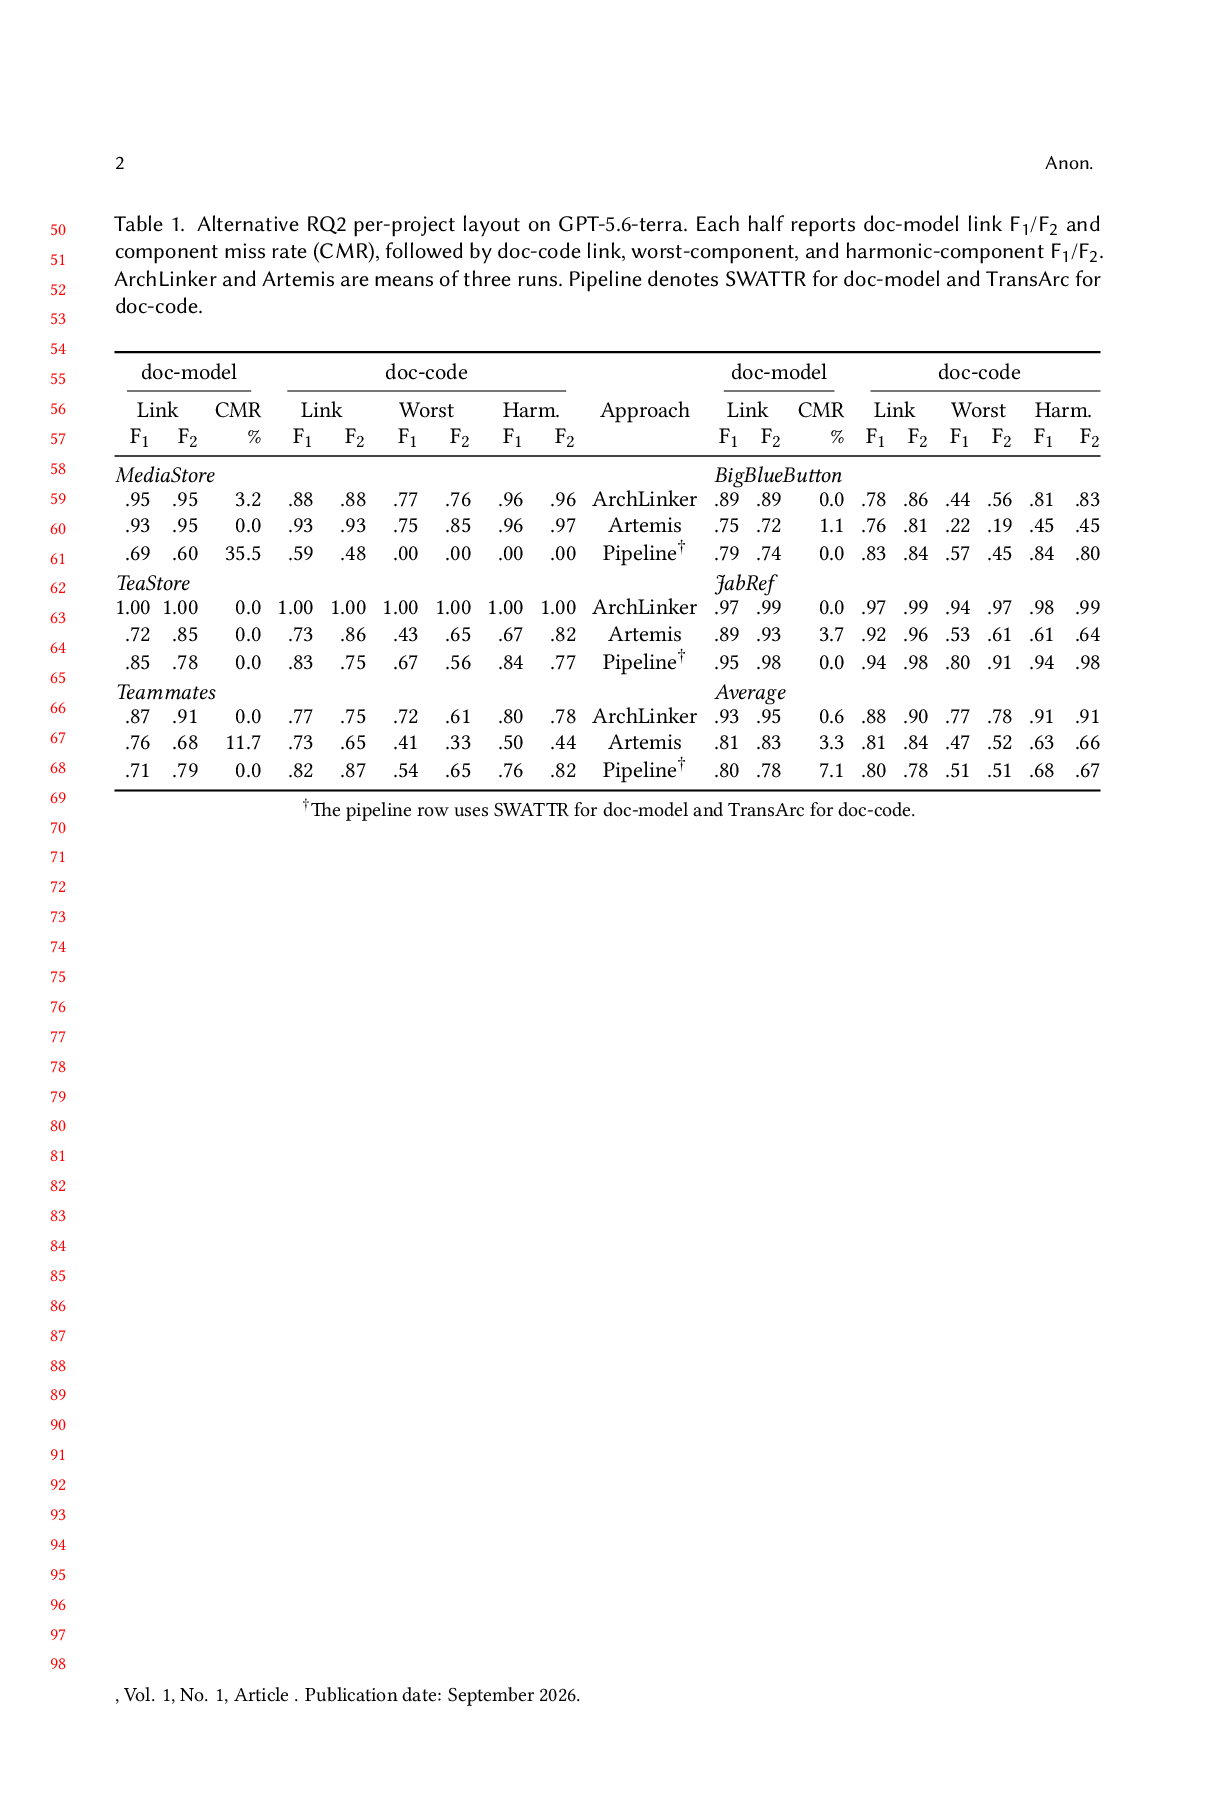
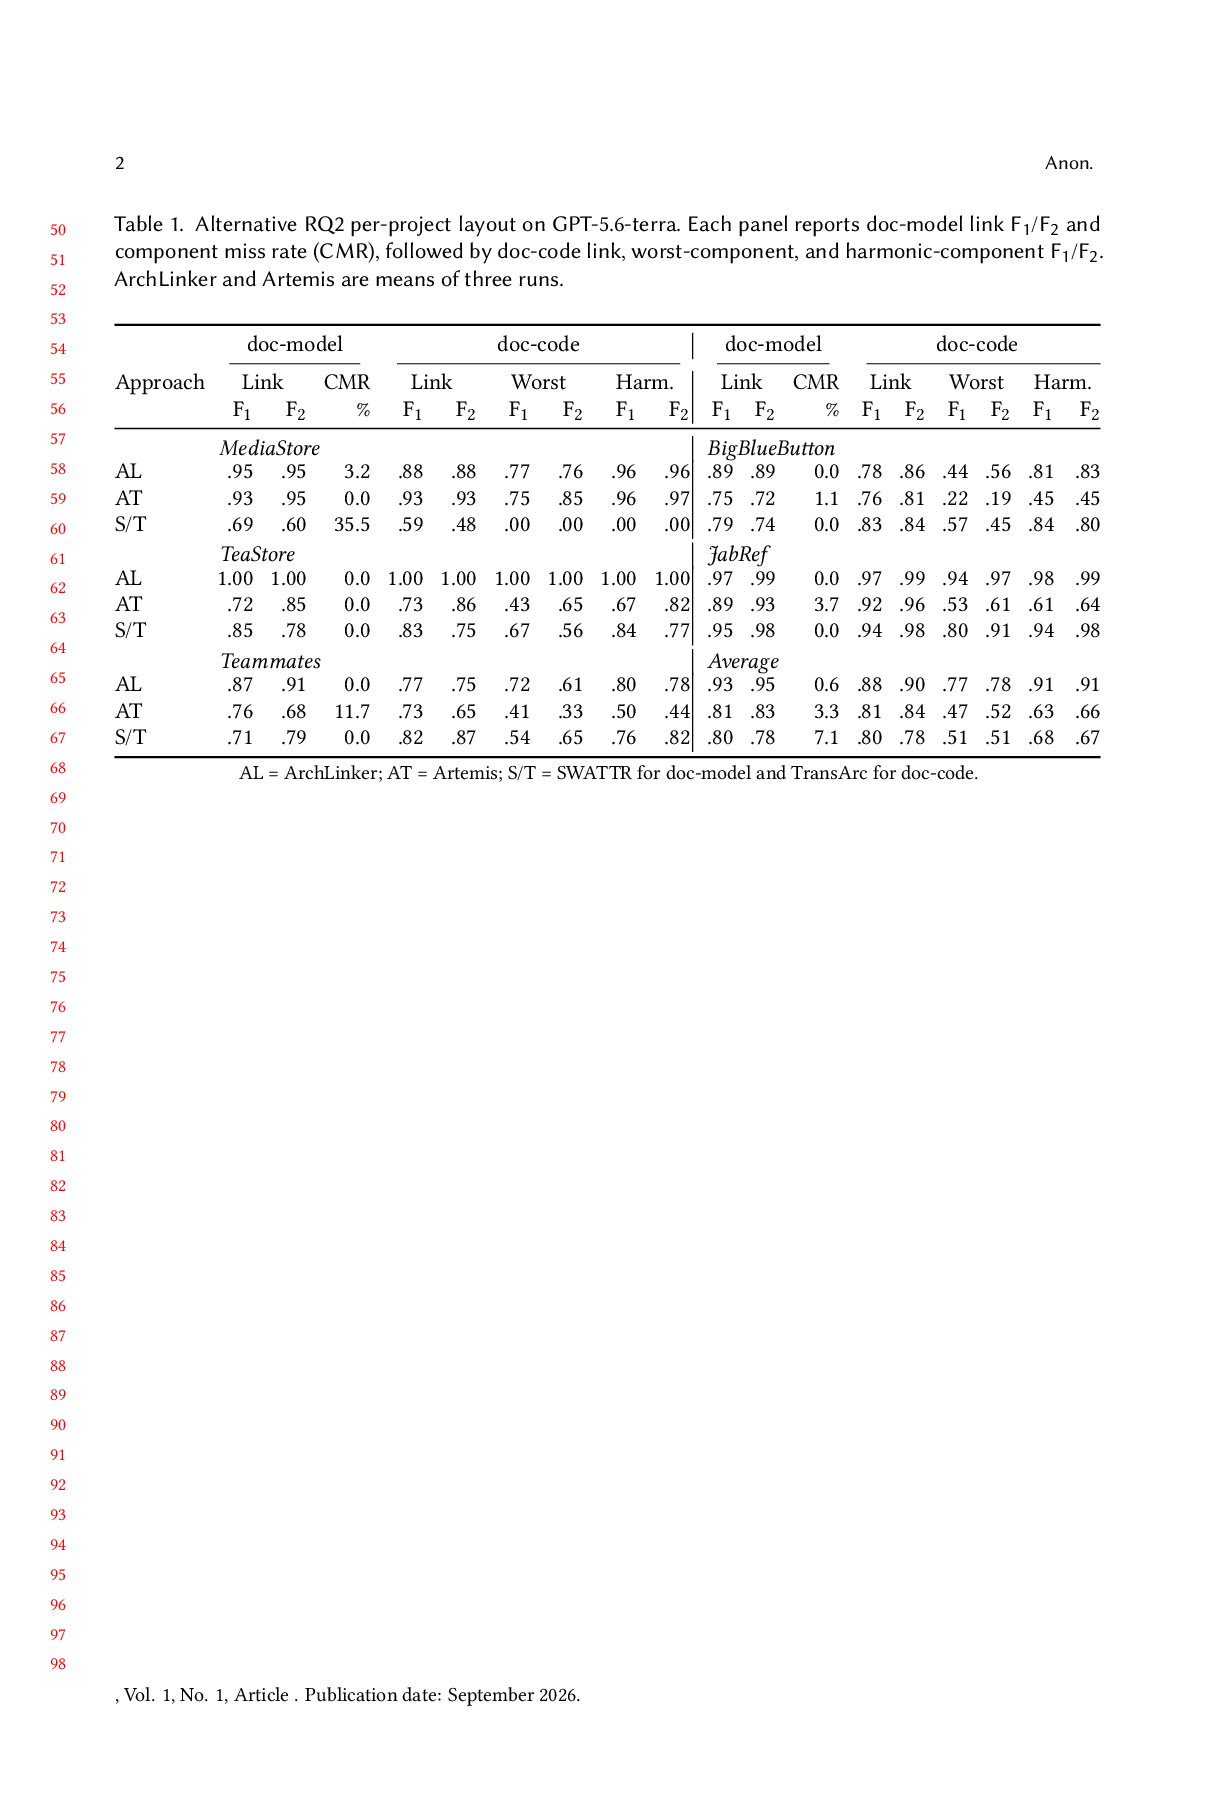
Refine RQ2 split-panel layout

Changed region(s): [[0.0914, 0.1244, 0.9136, 0.4667], [0.2132, 0.1244, 0.2436, 0.1556]]

diff --git a/scripts/generate_rq2_split_table.py b/scripts/generate_rq2_split_table.py
@@ -31,9 +31,9 @@ PROJECT_LABELS = {
     "Average": "Average",
 }
 SYSTEMS = (
-    ("approach (GPT-5.6-terra)", "ArchLinker"),
-    ("Artemis (GPT-5.6-terra)", "Artemis"),
-    ("TransArC", "Pipeline"),
+    ("approach (GPT-5.6-terra)", "AL"),
+    ("Artemis (GPT-5.6-terra)", "AT"),
+    ("TransArC", "S/T"),
 )
 METRICS = (
     "doc_to_model_link_f1",
@@ -147,14 +147,14 @@ def write_csv(path: Path, rows: list[DisplayRow]) -> None:
 
 def latex_approach(name: str) -> str:
     return {
-        "ArchLinker": r"\approach{}",
-        "Artemis": r"\Artemis{}",
-        "Pipeline": r"Pipeline$^{\dagger}$",
+        "AL": "AL",
+        "AT": "AT",
+        "S/T": "S/T",
     }[name]
 
 
 def latex_row(row: DisplayRow) -> str:
-    cells = [*row.left_values, latex_approach(row.approach), *row.right_values]
+    cells = [latex_approach(row.approach), *row.left_values, *row.right_values]
     return " & ".join(cells) + r" \\"
 
 
@@ -168,8 +168,8 @@ def render_tex(source: Path, csv_output: Path, rows: list[DisplayRow]) -> str:
             if previous_left is not None:
                 body.append(r"\addlinespace[1.5pt]")
             body.append(
-                rf"\multicolumn{{9}}{{@{{}}l}}{{\textit{{{row.left_project}}}}}"
-                rf" & & \multicolumn{{9}}{{l@{{}}}}{{\textit{{{row.right_project}}}}} \\[-1pt]"
+                rf"& \multicolumn{{9}}{{l|}}{{\textit{{{row.left_project}}}}}"
+                rf" & \multicolumn{{9}}{{l@{{}}}}{{\textit{{{row.right_project}}}}} \\[-1pt]"
             )
         body.append(latex_row(row))
         previous_left = row.left_project
@@ -179,25 +179,25 @@ def render_tex(source: Path, csv_output: Path, rows: list[DisplayRow]) -> str:
 % Intermediate data: {relative_csv}
 % Do not edit by hand; rerun the generator.
 \begin{{table}}[t]
-\caption{{Alternative RQ2 per-project layout on GPT-5.6-terra. Each half reports doc-model link \fone/\ftwo and component miss rate (CMR), followed by doc-code link, worst-component, and harmonic-component \fone/\ftwo. \approach{{}} and \Artemis{{}} are means of three runs. Pipeline denotes SWATTR for doc-model and \TransArc{{}} for doc-code.}}
+\caption{{Alternative RQ2 per-project layout on GPT-5.6-terra. Each panel reports doc-model link \fone/\ftwo and component miss rate (CMR), followed by doc-code link, worst-component, and harmonic-component \fone/\ftwo. \approach{{}} and \Artemis{{}} are means of three runs.}}
 \label{{tab:rq2-wide-comparison}}
 \centering\small
 \setlength{{\tabcolsep}}{{1pt}}
 \renewcommand{{\arraystretch}}{{0.96}}
-\begin{{tabular*}}{{\linewidth}}{{@{{}}r@{{\extracolsep{{\fill}}}}*{{8}}{{r}}c*{{9}}{{r}}@{{}}}}
+\begin{{tabular*}}{{\linewidth}}{{@{{}}l@{{\extracolsep{{\fill}}}}*{{9}}{{r}}|*{{9}}{{r}}@{{}}}}
 \toprule
-\multicolumn{{3}}{{c}}{{doc-model}} & \multicolumn{{6}}{{c}}{{doc-code}}
-& & \multicolumn{{3}}{{c}}{{doc-model}} & \multicolumn{{6}}{{c}}{{doc-code}} \\
-\cmidrule(lr){{1-3}}\cmidrule(lr){{4-9}}\cmidrule(lr){{11-13}}\cmidrule(l){{14-19}}
-\multicolumn{{2}}{{c}}{{Link}} & CMR & \multicolumn{{2}}{{c}}{{Link}} & \multicolumn{{2}}{{c}}{{Worst}} & \multicolumn{{2}}{{c}}{{Harm.}}
-& Approach & \multicolumn{{2}}{{c}}{{Link}} & CMR & \multicolumn{{2}}{{c}}{{Link}} & \multicolumn{{2}}{{c}}{{Worst}} & \multicolumn{{2}}{{c}}{{Harm.}} \\
-\fone & \ftwo & \% & \fone & \ftwo & \fone & \ftwo & \fone & \ftwo
-& & \fone & \ftwo & \% & \fone & \ftwo & \fone & \ftwo & \fone & \ftwo \\
+& \multicolumn{{3}}{{c}}{{doc-model}} & \multicolumn{{6}}{{c|}}{{doc-code}}
+& \multicolumn{{3}}{{c}}{{doc-model}} & \multicolumn{{6}}{{c}}{{doc-code}} \\
+\cmidrule(lr){{2-4}}\cmidrule(lr){{5-10}}\cmidrule(lr){{11-13}}\cmidrule(l){{14-19}}
+Approach & \multicolumn{{2}}{{c}}{{Link}} & CMR & \multicolumn{{2}}{{c}}{{Link}} & \multicolumn{{2}}{{c}}{{Worst}} & \multicolumn{{2}}{{c|}}{{Harm.}}
+& \multicolumn{{2}}{{c}}{{Link}} & CMR & \multicolumn{{2}}{{c}}{{Link}} & \multicolumn{{2}}{{c}}{{Worst}} & \multicolumn{{2}}{{c}}{{Harm.}} \\
+& \fone & \ftwo & \% & \fone & \ftwo & \fone & \ftwo & \fone & \ftwo
+& \fone & \ftwo & \% & \fone & \ftwo & \fone & \ftwo & \fone & \ftwo \\
 \midrule
 {chr(10).join(body)}
 \bottomrule
 \end{{tabular*}}
-\par\smallskip\footnotesize $^{{\dagger}}$The pipeline row uses SWATTR for doc-model and \TransArc{{}} for doc-code.
+\par\smallskip\footnotesize AL = \approach{{}}; AT = \Artemis{{}}; S/T = SWATTR for doc-model and \TransArc{{}} for doc-code.
 \end{{table}}
 """
 

diff --git a/verification/2026-09-21-rq2-split-table-generator.md b/verification/2026-09-21-rq2-split-table-generator.md
@@ -13,8 +13,9 @@ block contains BigBlueButton, JabRef, and the reported macro average.
 
 Each data row contains 18 separate numeric columns: doc-model link F1/F2 and
 CMR for both aligned projects, plus doc-code link, worst-component, and
-harmonic-component F1/F2 for both projects. The shared center approach column
-avoids repeating the system label.
+harmonic-component F1/F2 for both projects. A single leftmost approach column
+uses AL, AT, and S/T; the table legend expands these abbreviations. A vertical
+rule separates the two nine-metric project panels.
 
 ## Generation and deterministic replay
 
@@ -42,8 +43,8 @@ cmp /tmp/rq2-split.tex paper/table/rq2-wide-comparison.tex
 Both comparisons exited 0 with no output. Final SHA-256 digests:
 
 ```text
-e3f55e890a3003219de5156044efde1dde0a1b9321eb26998879f54c64597d5f  paper/table/rq2-wide-comparison.csv
-34d68a23270657f394f77067c9366dca2265fa92883496086d029dead5e897ec  paper/table/rq2-wide-comparison.tex
+e605d6ff41f549c1176da70d06c36fe20d2c549be8c66e804a66eb2b4c2ead42  paper/table/rq2-wide-comparison.csv
+a1c4070c714e95bbbdaef9a91fa5ac6092863e656a2af834b93d5a2b9c1381c2  paper/table/rq2-wide-comparison.tex
 ```
 
 The generator also passed a syntax check:
@@ -62,7 +63,7 @@ Command, from `verification/`:
 /tmp/rq2-tectonic.grZsvV/tectonic rq2-split-table-test.tex
 ```
 
-Result: exit 0; Tectonic wrote `rq2-split-table-test.pdf` (45.26 KiB). The
+Result: exit 0; Tectonic wrote `rq2-split-table-test.pdf` (45,160 bytes). The
 log contained no overfull or underfull box warning. The rendered table page is
 preserved as `verification/rq2-split-table-test-page2.png`.
 
